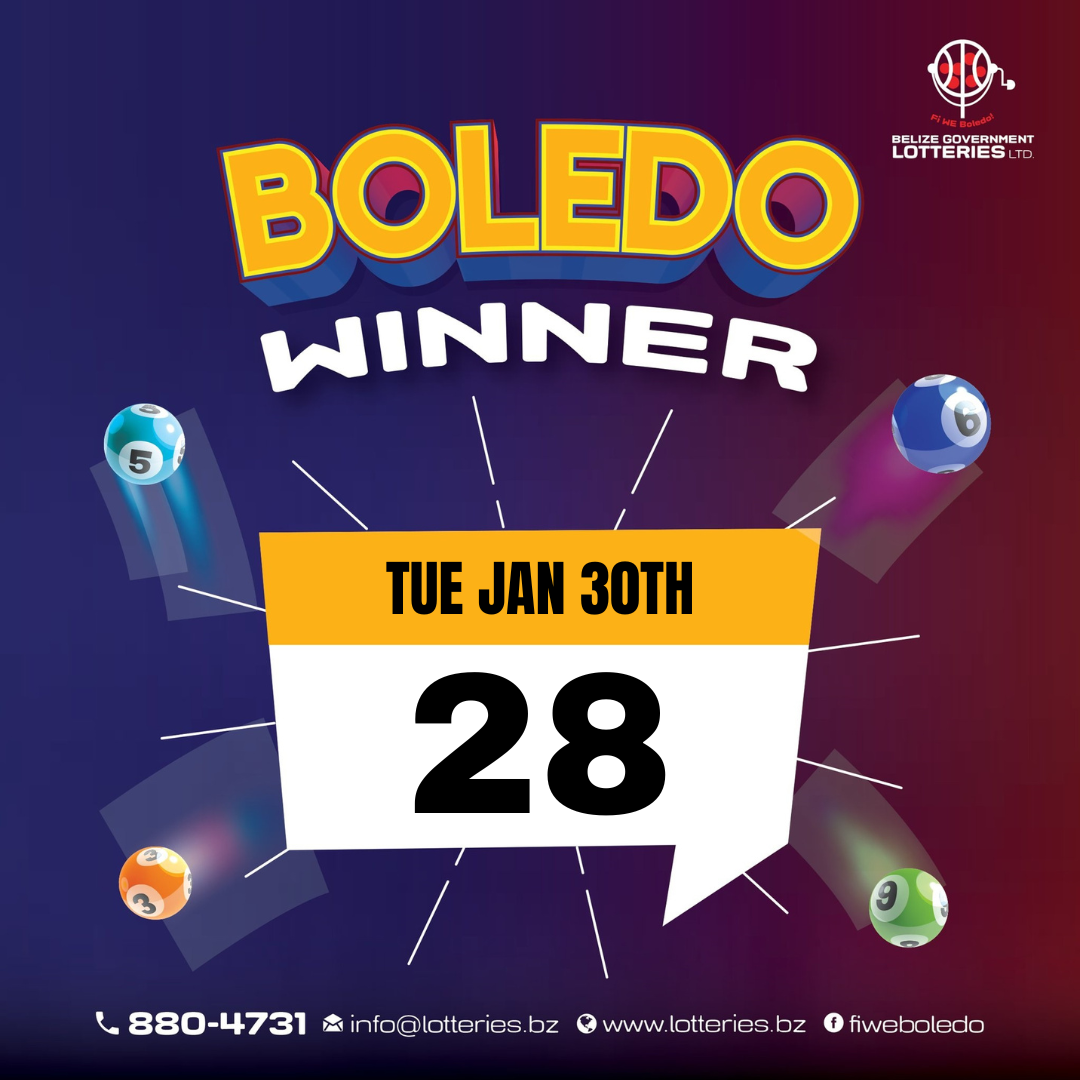
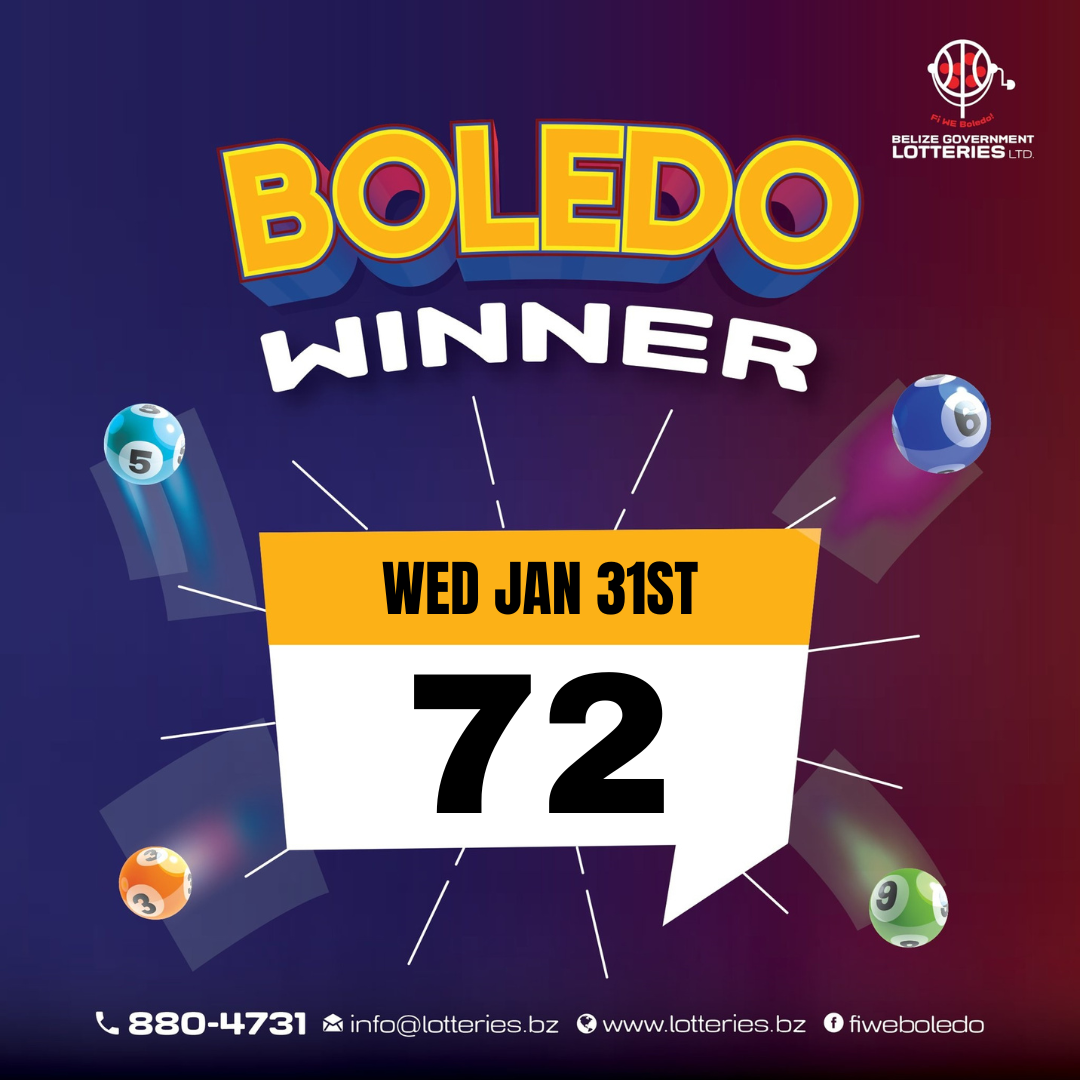
Update Winning Number

Changed region(s): [[0.3667, 0.6111, 0.6417, 0.7639], [0.3361, 0.5194, 0.6417, 0.5806]]

diff --git a/winningNumbers.js b/winningNumbers.js
@@ -37,7 +37,8 @@ var boledoDatabase = {
     "25/01/2024": '69',
     "26/01/2024": '59',
     "29/01/2024": '32',
-    "30/01/2024": '28'
+    "30/01/2024": '28',
+    "31/01/2024": '72'
 }
 
 var ordinaryLotteryDatabase = {
